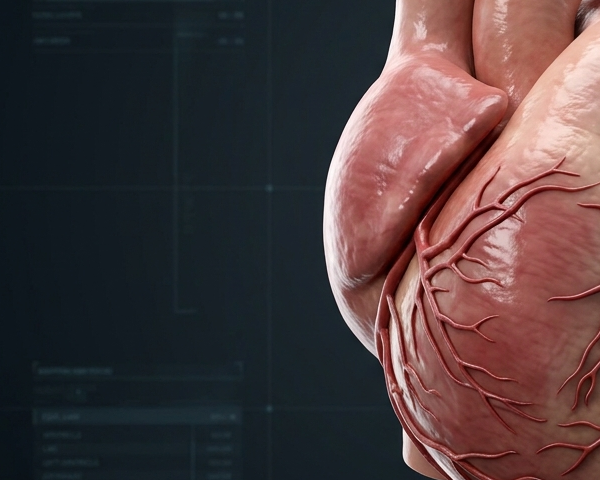
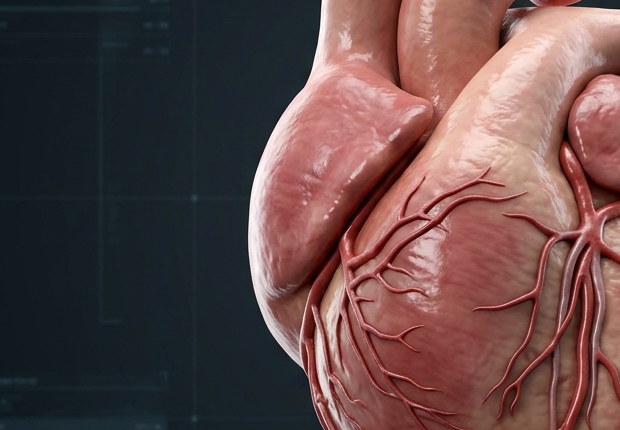
fix: re-crop heart cross-section image to fully reveal left-side internal chambers and widen label spacing

diff --git a/js/heart-map.js b/js/heart-map.js
@@ -92,11 +92,11 @@ export class HeartMap {
   }
 
   /**
-   * 正面・3D斜位視点 SVG (ユーザー提供3D解剖モデル & 部位ラベル配置版)
+   * 正面・3D斜位視点 SVG (ユーザー提供3D解剖断面図モデル & 部位ラベル配置版)
    */
   getAnteriorSvg() {
     return `
-      <svg class="heart-svg" viewBox="0 0 920 620" xmlns="http://www.w3.org/2000/svg" xmlns:xlink="http://www.w3.org/1999/xlink">
+      <svg class="heart-svg" viewBox="0 0 1080 640" xmlns="http://www.w3.org/2000/svg" xmlns:xlink="http://www.w3.org/1999/xlink">
         <defs>
           <pattern id="hud-grid" width="30" height="30" patternUnits="userSpaceOnUse">
             <path d="M 30 0 L 0 0 0 30" fill="none" stroke="rgba(56, 189, 248, 0.04)" stroke-width="0.5"/>
@@ -104,12 +104,12 @@ export class HeartMap {
         </defs>
 
         <!-- 背景HUD -->
-        <rect width="920" height="620" fill="#060a14"/>
-        <rect width="920" height="620" fill="url(#hud-grid)"/>
+        <rect width="1080" height="640" fill="#060a14"/>
+        <rect width="1080" height="640" fill="url(#hud-grid)"/>
 
-        <!-- 【ユーザー指定 3D心臓解剖断面図モデル (100%確実表示設定)】 -->
+        <!-- 【ユーザー指定 3D心臓解剖断面図モデル (心臓断面がクッキリ全出)】 -->
         <g>
-          <image href="assets/heart-cross-section.png" xlink:href="assets/heart-cross-section.png" x="250" y="25" width="420" height="560" preserveAspectRatio="xMidYMid meet" opacity="0.98"/>
+          <image href="assets/heart-cross-section.png" xlink:href="assets/heart-cross-section.png" x="310" y="15" width="460" height="610" preserveAspectRatio="xMidYMid meet" opacity="0.98"/>
         </g>
 
         <!-- ================= 15部位ラベルの左右配置 (矢印指定用) ================= -->
@@ -161,49 +161,49 @@ export class HeartMap {
         <!-- 【右側配置ラベル群 (左室・LVOT・大動脈弁・乳頭筋等)】 -->
 
         <!-- 8. LVOT RCC (右冠尖) -->
-        <g class="origin-site" data-site="lvot_rcc" transform="translate(785, 75)">
+        <g class="origin-site" data-site="lvot_rcc" transform="translate(945, 75)">
           <rect class="site-label-bg" x="-115" y="-18" width="230" height="36" rx="8" fill="rgba(15, 23, 42, 0.94)" stroke="#ef4444" stroke-width="2.2" />
           <text class="site-label-text" x="0" y="5" text-anchor="middle" fill="#ffffff" font-size="14.5" font-weight="800">8. LVOT (RCC 右冠尖)</text>
         </g>
 
         <!-- 9. LVOT LCC (左冠尖) -->
-        <g class="origin-site" data-site="lvot_lcc" transform="translate(785, 135)">
+        <g class="origin-site" data-site="lvot_lcc" transform="translate(945, 135)">
           <rect class="site-label-bg" x="-115" y="-18" width="230" height="36" rx="8" fill="rgba(15, 23, 42, 0.94)" stroke="#ef4444" stroke-width="2.2" />
           <text class="site-label-text" x="0" y="5" text-anchor="middle" fill="#ffffff" font-size="14.5" font-weight="800">9. LVOT (LCC 左冠尖)</text>
         </g>
 
         <!-- 10. LVOT NCC (無冠尖) -->
-        <g class="origin-site" data-site="lvot_ncc" transform="translate(785, 195)">
+        <g class="origin-site" data-site="lvot_ncc" transform="translate(945, 195)">
           <rect class="site-label-bg" x="-115" y="-18" width="230" height="36" rx="8" fill="rgba(15, 23, 42, 0.94)" stroke="#ef4444" stroke-width="2.2" />
           <text class="site-label-text" x="0" y="5" text-anchor="middle" fill="#ffffff" font-size="14.5" font-weight="800">10. LVOT (NCC 無冠尖)</text>
         </g>
 
         <!-- 11. LV Summit -->
-        <g class="origin-site" data-site="lv_summit" transform="translate(785, 255)">
+        <g class="origin-site" data-site="lv_summit" transform="translate(945, 255)">
           <rect class="site-label-bg" x="-115" y="-18" width="230" height="36" rx="8" fill="rgba(15, 23, 42, 0.94)" stroke="#ef4444" stroke-width="2.2" />
           <text class="site-label-text" x="0" y="5" text-anchor="middle" fill="#ffffff" font-size="14.5" font-weight="800">11. LV Summit (左室頂部)</text>
         </g>
 
         <!-- 12. AMC (移行部) -->
-        <g class="origin-site" data-site="amc" transform="translate(785, 315)">
+        <g class="origin-site" data-site="amc" transform="translate(945, 315)">
           <rect class="site-label-bg" x="-115" y="-18" width="230" height="36" rx="8" fill="rgba(15, 23, 42, 0.94)" stroke="#ef4444" stroke-width="2.2" />
           <text class="site-label-text" x="0" y="5" text-anchor="middle" fill="#ffffff" font-size="14" font-weight="800">12. AMC (大動脈僧帽弁弁膜)</text>
         </g>
 
         <!-- 13. 僧帽弁輪 (MVA) -->
-        <g class="origin-site" data-site="mva" transform="translate(785, 375)">
+        <g class="origin-site" data-site="mva" transform="translate(945, 375)">
           <rect class="site-label-bg" x="-115" y="-18" width="230" height="36" rx="8" fill="rgba(15, 23, 42, 0.94)" stroke="#ef4444" stroke-width="2.2" />
           <text class="site-label-text" x="0" y="5" text-anchor="middle" fill="#ffffff" font-size="14" font-weight="800">13. 僧帽弁輪 (Mitral Annulus)</text>
         </g>
 
         <!-- 14. 前外側乳頭筋 (ALPM) -->
-        <g class="origin-site" data-site="alpm" transform="translate(785, 435)">
+        <g class="origin-site" data-site="alpm" transform="translate(945, 435)">
           <rect class="site-label-bg" x="-115" y="-18" width="230" height="36" rx="8" fill="rgba(15, 23, 42, 0.94)" stroke="#ef4444" stroke-width="2.2" />
           <text class="site-label-text" x="0" y="5" text-anchor="middle" fill="#ffffff" font-size="13.5" font-weight="800">14. 前外側乳頭筋 (ALPM)</text>
         </g>
 
         <!-- 15. 後内側乳頭筋 (PMPM) -->
-        <g class="origin-site" data-site="pmpm" transform="translate(785, 495)">
+        <g class="origin-site" data-site="pmpm" transform="translate(945, 495)">
           <rect class="site-label-bg" x="-115" y="-18" width="230" height="36" rx="8" fill="rgba(15, 23, 42, 0.94)" stroke="#ef4444" stroke-width="2.2" />
           <text class="site-label-text" x="0" y="5" text-anchor="middle" fill="#ffffff" font-size="13.5" font-weight="800">15. 後内側乳頭筋 (PMPM)</text>
         </g>

diff --git a/index.html b/index.html
@@ -160,10 +160,10 @@
   </script>
 
   <!-- スタイルシート (強力キャッシュリフレッシュ適用) -->
-  <link rel="stylesheet" href="./css/style.css?v=20260925_v10200_fix_syntax_error_full_restore">
-  <link rel="stylesheet" href="./css/heart-map.css?v=20260925_v10200_fix_syntax_error_full_restore">
-  <link rel="stylesheet" href="./css/ios-mobile.css?v=20260925_v10200_fix_syntax_error_full_restore">
-  <link rel="stylesheet" href="./css/quiz.css?v=20260925_v10200_fix_syntax_error_full_restore">
+  <link rel="stylesheet" href="./css/style.css?v=20260925_v10205_correct_heart_cross_section_crop_wide">
+  <link rel="stylesheet" href="./css/heart-map.css?v=20260925_v10205_correct_heart_cross_section_crop_wide">
+  <link rel="stylesheet" href="./css/ios-mobile.css?v=20260925_v10205_correct_heart_cross_section_crop_wide">
+  <link rel="stylesheet" href="./css/quiz.css?v=20260925_v10205_correct_heart_cross_section_crop_wide">
 </head>
 <body>
   <div class="app-container">
@@ -1158,6 +1158,6 @@
   </nav>
 
   <!-- アプリケーションモジュール構築 (強硬キャッシュバスター適用 & 100%完全動的ロード) -->
-  <script type="module" src="./js/app.js?v=20260925_v10200_fix_syntax_error_full_restore"></script>
+  <script type="module" src="./js/app.js?v=20260925_v10205_correct_heart_cross_section_crop_wide"></script>
 </body>
 </html>

diff --git a/css/heart-map.css b/css/heart-map.css
@@ -59,7 +59,7 @@
 .heart-svg-wrapper {
   position: relative;
   width: 100%;
-  max-width: 960px;
+  max-width: 1120px;
   min-height: 560px;
   height: auto;
   display: flex;
